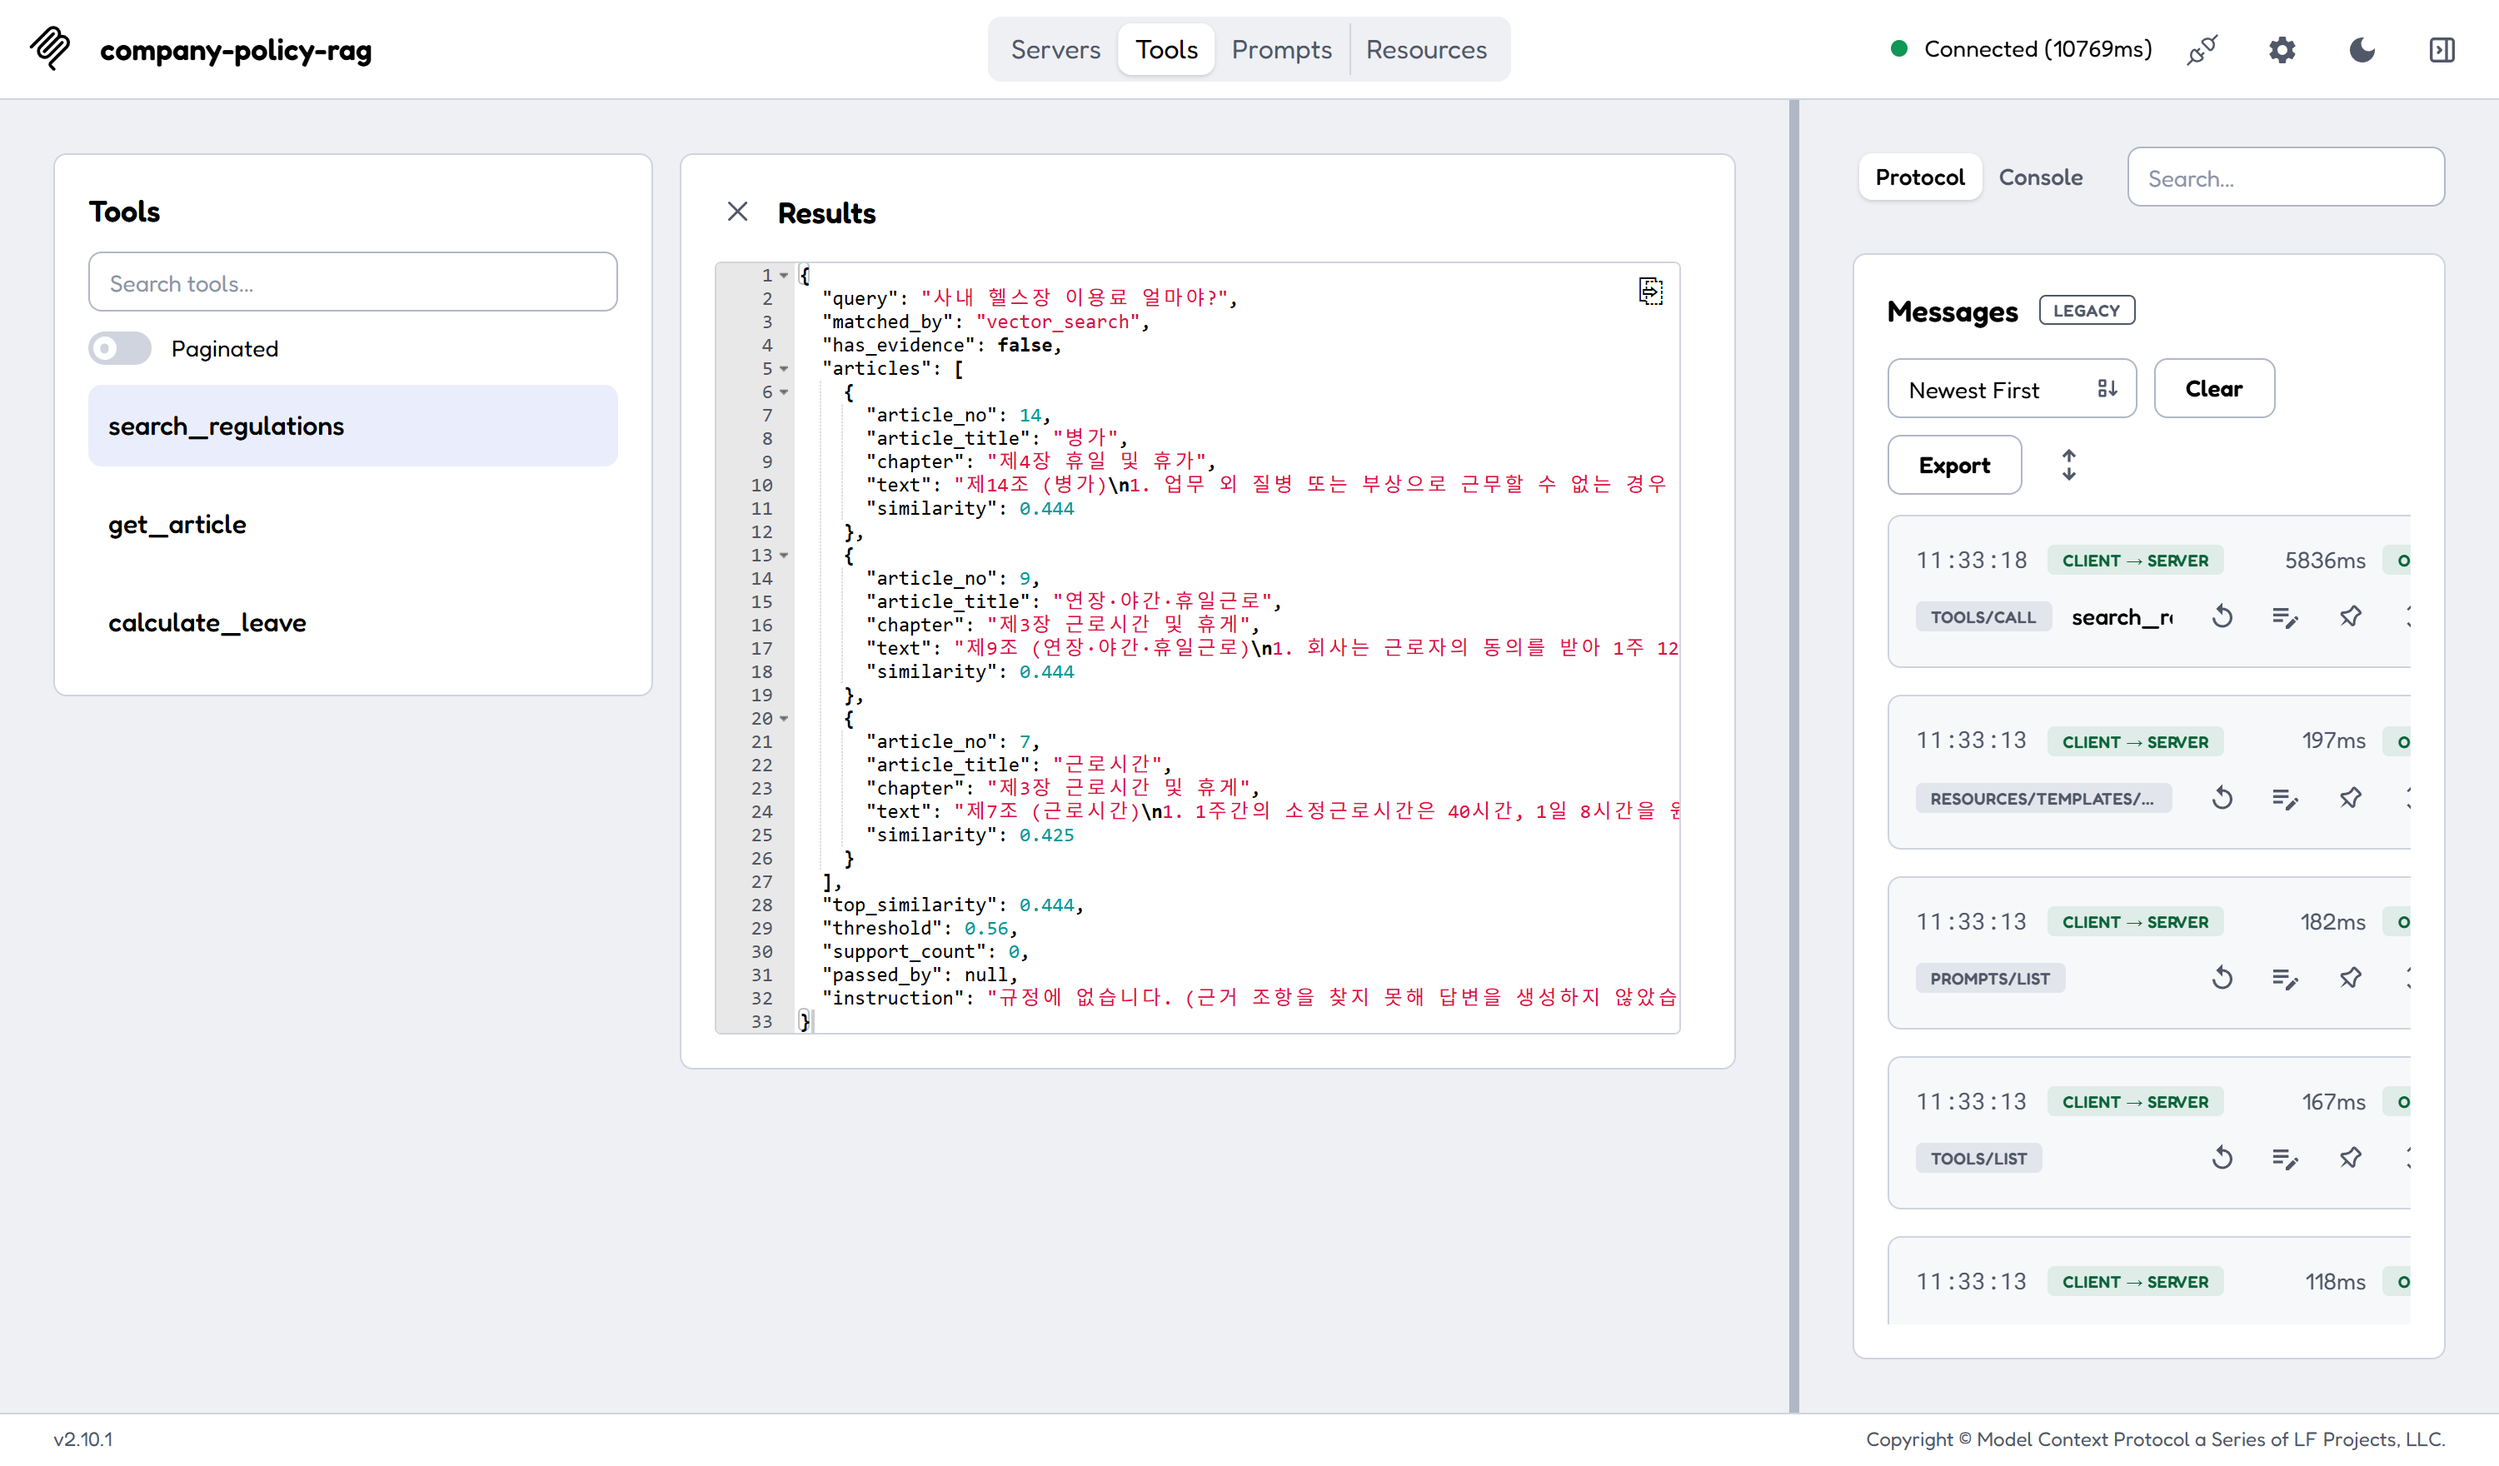
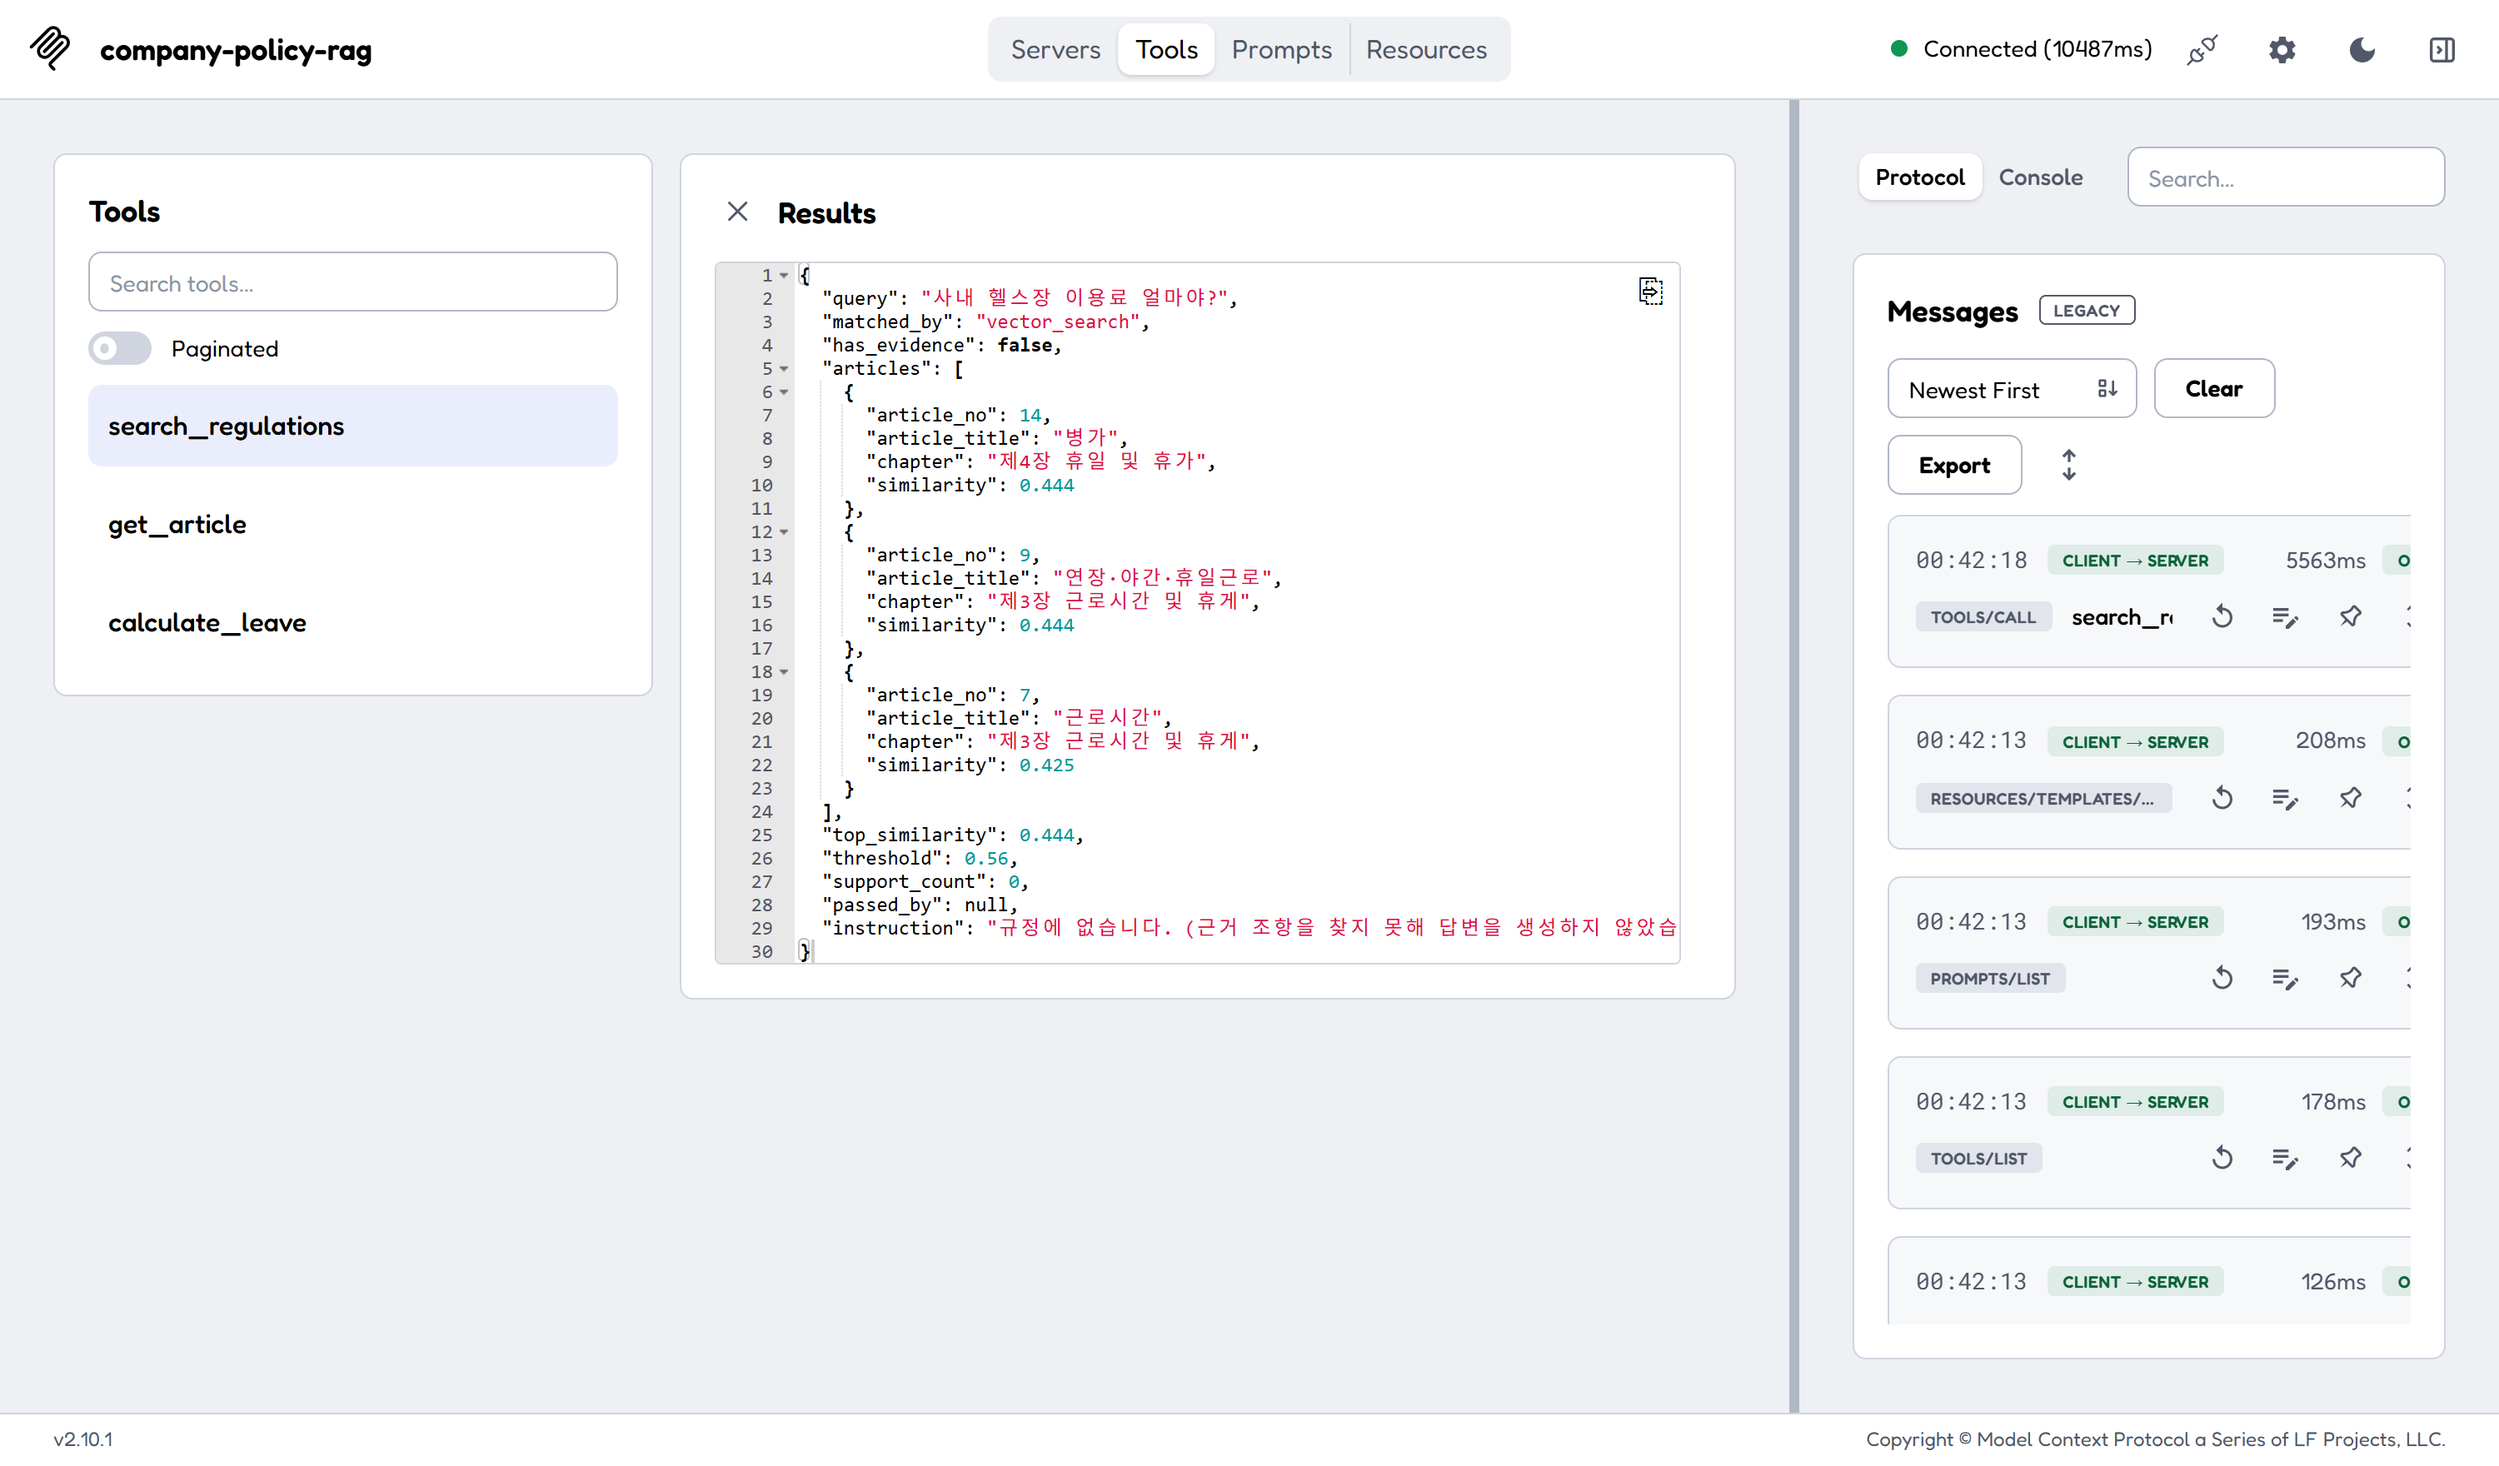
근거 부족 시 MCP 응답에서 조문 본문을 제외
두 표면의 가드가 다르게 동작하고 있었다.
  app.py      : 근거 부족 -> LLM 을 아예 호출하지 않아 모델이 조문을 못 본다
  mcp_server  : 근거 부족 -> 조문 3개(324자)를 전부 실어 보내고 "쓰지 마라"고
                부탁만 했다

본문을 주면서 쓰지 말라는 건 이 프로젝트가 피하려던 패턴 그대로다. 프롬프트가
모순됐을 때 모델이 지시를 5회 중 3회 무시한 실측이 이미 있다. MCP 는 호스트가
LLM 이라 '보내지 않는 것'이 유일한 차단 수단이다.

- _fmt(include_text=...): has_evidence 가 false 면 text 를 빼고 조 번호·제목·
  유사도만 남긴다. 무엇을 찾아봤는지는 투명하게 보이되 지어낼 재료는 주지 않는다.
- instruction 에 본문을 뺐다는 사실과, 꼭 필요하면 get_article 로 직접 조회하라는
  대안을 명시
- check_mcp: 근거 없을 때 본문 제외 + 근거 있을 때 본문 포함을 둘 다 검증
  (12/12 -> 14/14)
- README 예시와 MCP 스크린샷을 새 응답 형태로 갱신

diff --git a/company_rag/mcp_server.py b/company_rag/mcp_server.py
@@ -39,13 +39,14 @@ def _load():
     return _cache
 
 
-def _fmt(chunk: dict, score: float) -> dict:
+def _fmt(chunk: dict, score: float, include_text: bool = True) -> dict:
     out = {
         "article_no": chunk["article_no"],
         "article_title": chunk["article_title"],
         "chapter": chunk["chapter"],
-        "text": chunk["text"],
     }
+    if include_text:
+        out["text"] = chunk["text"]
     if score == EXACT_SCORE:
         out["match"] = "exact"          # 번호로 직접 찾음 — 유사도가 아니다
     else:
@@ -62,8 +63,8 @@ def search_regulations(query: str, k: int = 3) -> dict:
     질문에 "제N조"가 있으면 벡터 검색 대신 해당 조항을 직접 조회한다
     (번호 질문은 비교할 의미가 적어 유사도가 낮게 나오기 때문).
 
-    has_evidence 가 false 면 근거를 찾지 못한 것이다. 이때는 반환된 조항을
-    근거로 답을 지어내지 말고, 규정에 없다고 사용자에게 알려야 한다.
+    has_evidence 가 false 면 근거를 찾지 못한 것이다. 이때는 조문 본문(text)이
+    응답에서 빠지고 조 번호·제목·유사도만 남는다. 규정에 없다고 알려야 한다.
 
     Args:
         query: 사용자 질문 (예: "연차 며칠 쓸 수 있어?", "제27조가 뭐야?")
@@ -75,11 +76,17 @@ def search_regulations(query: str, k: int = 3) -> dict:
     top, exact = verdict["top"], verdict["passed_by"] == "exact"
     has_evidence = verdict["ok"]
 
+    # 근거가 부족하면 조문 본문을 빼고 내보낸다.
+    # app.py 는 이 경우 LLM 을 아예 호출하지 않아 모델이 조문을 보지 못한다.
+    # 그런데 MCP 는 호스트가 LLM 이라 '보내지 않는 것'이 유일한 차단 수단이다.
+    # 본문을 주면서 "쓰지 마라"고 부탁하는 건, 이 프로젝트가 피하려던 바로 그 패턴이다
+    # (프롬프트가 모순됐을 때 모델이 지시를 5회 중 3회 무시한 실측이 있다).
+    # 조 번호·제목·유사도는 남겨서 "무엇을 찾아봤는지"는 투명하게 보여준다.
     result = {
         "query": query,
         "matched_by": "article_number" if exact else "vector_search",
         "has_evidence": has_evidence,
-        "articles": [_fmt(c, s) for c, s in hits],
+        "articles": [_fmt(c, s, include_text=has_evidence) for c, s in hits],
     }
     if not exact:
         result["top_similarity"] = round(float(top), 3)
@@ -90,7 +97,8 @@ def search_regulations(query: str, k: int = 3) -> dict:
         result["instruction"] = (
             f"{NO_EVIDENCE} 최고 유사도 {top:.3f} 가 임계값 {CONF_THRESHOLD} 에 못 미치고, "
             f"{SUPPORT_FLOOR} 이상인 조항도 {verdict['support']}개뿐이다(필요 {MIN_SUPPORT}개). "
-            "위 조항들을 근거로 답을 만들지 말고, 규정에서 근거를 찾지 못했다고 답하라."
+            "그래서 조문 본문(text)은 응답에서 제외했다. 규정에서 근거를 찾지 못했다고 "
+            "사용자에게 알려라. 조문이 꼭 필요하면 get_article 로 조 번호를 직접 지정해 조회하라."
         )
     return result
 

diff --git a/company_rag/tools/check_mcp.py b/company_rag/tools/check_mcp.py
@@ -63,6 +63,19 @@ async def main():
             mark(r["has_evidence"] is False and "instruction" in r,
                  "has_evidence=false + 호스트용 지시문 포함",
                  r.get("instruction", "")[:70] + "...")
+            # 본문을 주면서 "쓰지 마라"고 하면 모델이 무시할 수 있다 → 아예 안 보낸다
+            no_body = all("text" not in a for a in r["articles"])
+            has_meta = all({"article_no", "article_title"} <= set(a) for a in r["articles"])
+            mark(no_body and has_meta,
+                 "조문 본문은 제외하고 조 번호·제목만 남김",
+                 f"조항 {len(r['articles'])}개, 키: {sorted(r['articles'][0])}")
+
+            print("\n[검색 — 근거 있음 → 본문 포함]")
+            r = payload(await s.call_tool("search_regulations",
+                                          {"query": "연차 며칠 쓸 수 있어?"}))
+            mark(all("text" in a for a in r["articles"]),
+                 "근거가 충분할 때는 본문이 그대로 실림",
+                 f"제{r['articles'][0]['article_no']}조 {len(r['articles'][0]['text'])}자")
 
             print("\n[검색 — 번호 질문은 정규식 조회로]")
             r = payload(await s.call_tool("search_regulations",
